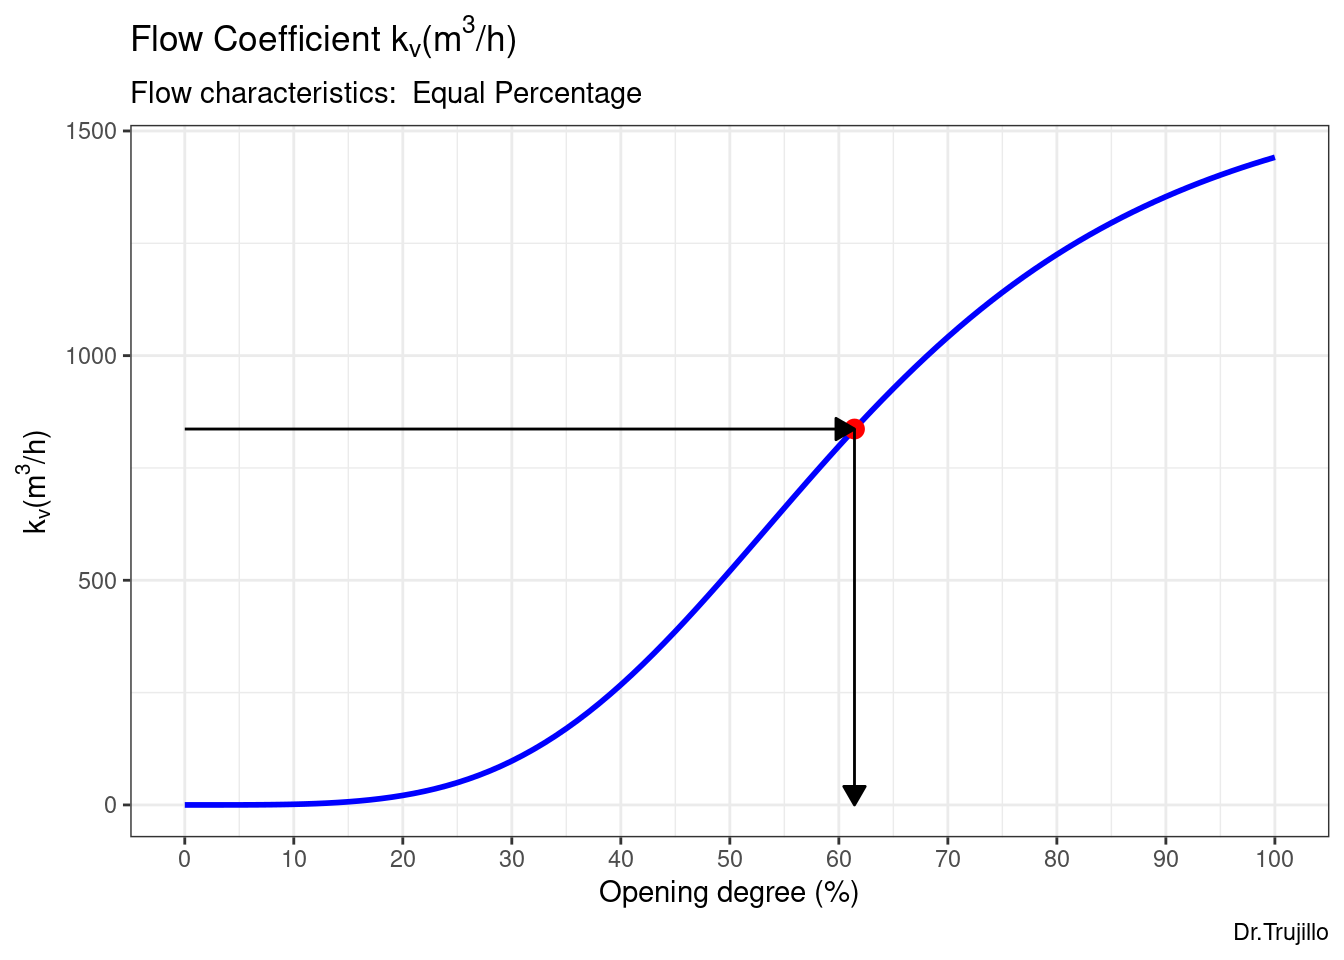
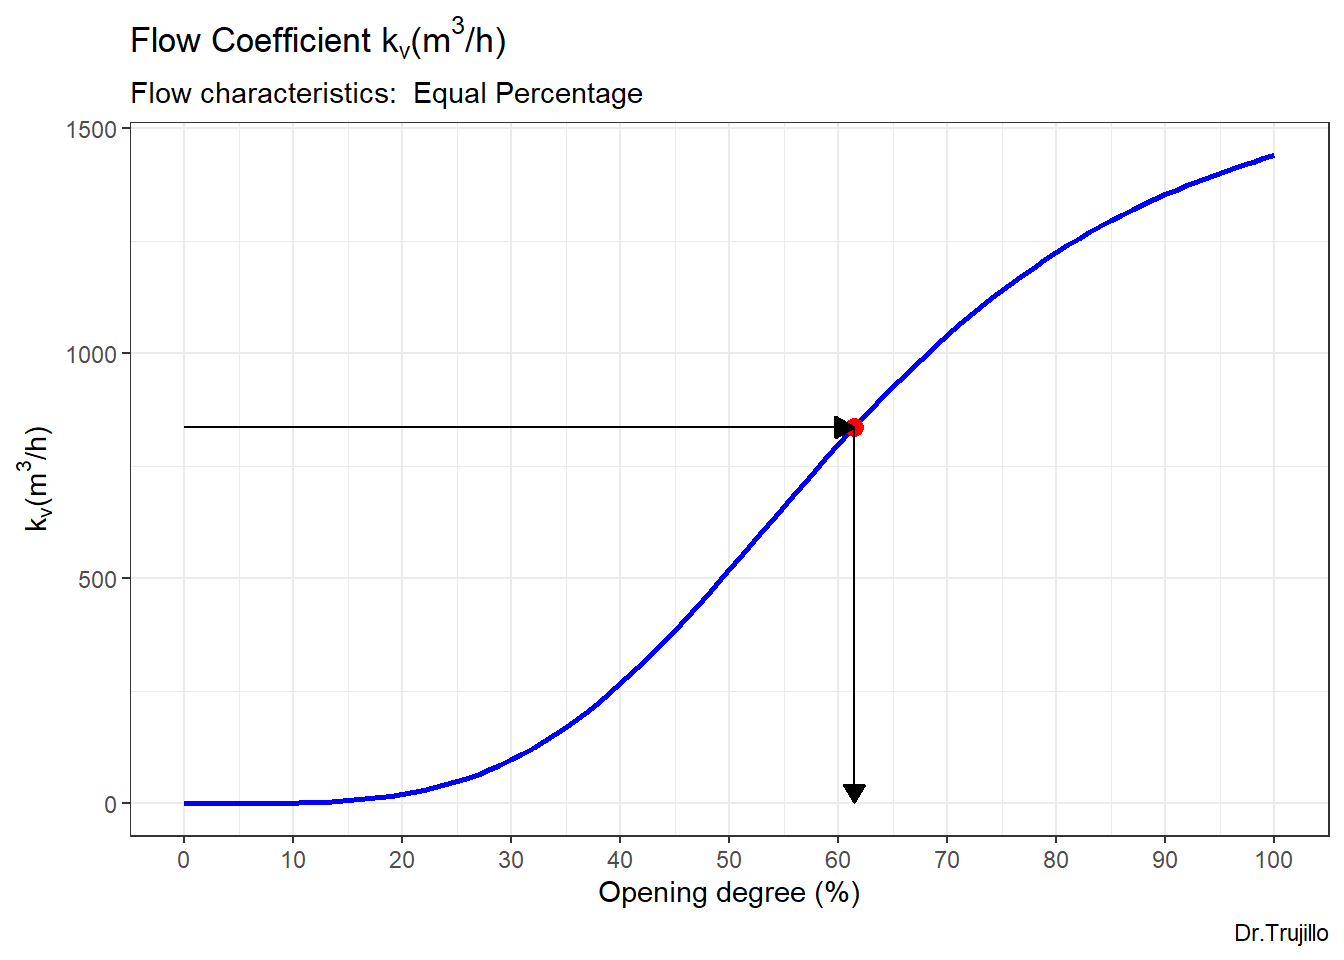
Update graph.

diff --git a/docs/HydraulicBasics.html b/docs/HydraulicBasics.html
@@ -277,8 +277,8 @@
 <div id="roughness-coefficient-varepsilon-of-the-pipe-in-mm" class="section level2">
 <h2><span class="header-section-number">2.6</span> Roughness coefficient <span class="math inline">\(\varepsilon\)</span> of the pipe in mm</h2>
 <div class="figure"><span id="fig:roughnessTab"></span>
-<div id="htmlwidget-64fee772e77f0d44f765" style="width:100%;height:auto;" class="datatables html-widget"></div>
-<script type="application/json" data-for="htmlwidget-64fee772e77f0d44f765">{"x":{"filter":"none","data":[["1","2","3","4","5","6","7","8","9","10","11","12","13","14","15","16","17","18","19","20","21","22","23","24","25","26","27","28","29","30","31","32","33","34","35","36","37","38"],["Aluminium","Aluminium","Asbestos-cement","Brass","Brass","Cast iron","Cast iron","Cast iron","Cast iron","Cast iron","Cast iron","Clay- Drainage-pipe","Concrete","Concrete","Concrete","Concrete","Concrete-Centrifugal-","Concrete-Centrifugal-","Concrete-Steel-","Copper","Copper","Glass","Glass","Plastic","Plastic","Rubber","Steel","Steel","Steel","Steel","Steel-longitudinal welded","Steel-longitudinal welded","Steel-longitudinal welded","Steel-weldless","Steel-weldless","Steel-weldless","Steel-weldless","Steel-weldless"],["drawn/pressed","drawn/pressed","smooth","drawn/pressed","drawn/pressed","average city severage","incrusted","bituminized","with skin","operating several years- cleaned","slightly rusty","calcined","medium rough","rough","smooth","operating several years","smooth plastered","without plaster","smooth","drawn/pressed","drawn/pressed","drawn/pressed","drawn/pressed","drawn/pressed","drawn/pressed","smoot","after long operation cleaned","homogeneous corrosion pits","intensely incrusted","slightly rusty and incrusted","bituminized","galvanized","rolling skin","comm.size galvanized","neatly galvanized","pickled","rolling skin","unpickled"],[true,false,true,true,false,false,false,true,true,false,false,true,true,true,true,false,true,true,true,true,false,true,false,true,false,true,false,false,false,false,true,true,true,true,true,true,true,true],[false,true,false,false,true,true,true,false,false,true,false,false,false,false,false,true,false,false,false,false,true,false,true,false,true,false,true,true,true,true,false,false,false,false,false,false,false,false],[false,false,false,false,false,false,false,false,false,true,false,false,false,false,false,false,false,false,false,false,false,false,false,false,false,false,true,false,false,false,false,false,false,false,false,false,false,false],[0.0013,0.03,0.03,0.0013,0.03,1.2,3,0.1,0.2,1.5,1,0.7,1,2,0.3,0.2,0.1,0.2,1,0.0013,0.03,0.0013,0.03,0.0013,0.03,0.0016,0.15,0.15,2,0.15,0.01,0.008,0.04,0.1,0.07,0.03,0.02,0.03],[0.0015,0.0346,0.1,0.0014,0.0323,1.56,3.9,0.13,0.6,1.95,1.5,1.05,2,3,0.8,0.3,0.15,0.8,0.15,0.0015,0.0346,0.0015,0.0346,0.0015,0.0346,0.0018,0.2,0.2,4,0.4,0.05,0.04,0.1,0.16,0.1,0.04,0.06,0.06]],"container":"<table class=\"display\">\n  <thead>\n    <tr>\n      <th> <\/th>\n      <th>material<\/th>\n      <th>comment<\/th>\n      <th>new<\/th>\n      <th>used<\/th>\n      <th>cleaned<\/th>\n      <th>min<\/th>\n      <th>max<\/th>\n    <\/tr>\n  <\/thead>\n<\/table>","options":{"columnDefs":[{"className":"dt-right","targets":[6,7]},{"orderable":false,"targets":0}],"order":[],"autoWidth":false,"orderClasses":false}},"evals":[],"jsHooks":[]}</script>
+<div id="htmlwidget-a570bbbf2663b847f769" style="width:100%;height:auto;" class="datatables html-widget"></div>
+<script type="application/json" data-for="htmlwidget-a570bbbf2663b847f769">{"x":{"filter":"none","data":[["1","2","3","4","5","6","7","8","9","10","11","12","13","14","15","16","17","18","19","20","21","22","23","24","25","26","27","28","29","30","31","32","33","34","35","36","37","38"],["Aluminium","Aluminium","Asbestos-cement","Brass","Brass","Cast iron","Cast iron","Cast iron","Cast iron","Cast iron","Cast iron","Clay- Drainage-pipe","Concrete","Concrete","Concrete","Concrete","Concrete-Centrifugal-","Concrete-Centrifugal-","Concrete-Steel-","Copper","Copper","Glass","Glass","Plastic","Plastic","Rubber","Steel","Steel","Steel","Steel","Steel-longitudinal welded","Steel-longitudinal welded","Steel-longitudinal welded","Steel-weldless","Steel-weldless","Steel-weldless","Steel-weldless","Steel-weldless"],["drawn/pressed","drawn/pressed","smooth","drawn/pressed","drawn/pressed","average city severage","incrusted","bituminized","with skin","operating several years- cleaned","slightly rusty","calcined","medium rough","rough","smooth","operating several years","smooth plastered","without plaster","smooth","drawn/pressed","drawn/pressed","drawn/pressed","drawn/pressed","drawn/pressed","drawn/pressed","smoot","after long operation cleaned","homogeneous corrosion pits","intensely incrusted","slightly rusty and incrusted","bituminized","galvanized","rolling skin","comm.size galvanized","neatly galvanized","pickled","rolling skin","unpickled"],[true,false,true,true,false,false,false,true,true,false,false,true,true,true,true,false,true,true,true,true,false,true,false,true,false,true,false,false,false,false,true,true,true,true,true,true,true,true],[false,true,false,false,true,true,true,false,false,true,false,false,false,false,false,true,false,false,false,false,true,false,true,false,true,false,true,true,true,true,false,false,false,false,false,false,false,false],[false,false,false,false,false,false,false,false,false,true,false,false,false,false,false,false,false,false,false,false,false,false,false,false,false,false,true,false,false,false,false,false,false,false,false,false,false,false],[0.0013,0.03,0.03,0.0013,0.03,1.2,3,0.1,0.2,1.5,1,0.7,1,2,0.3,0.2,0.1,0.2,1,0.0013,0.03,0.0013,0.03,0.0013,0.03,0.0016,0.15,0.15,2,0.15,0.01,0.008,0.04,0.1,0.07,0.03,0.02,0.03],[0.0015,0.0346,0.1,0.0014,0.0323,1.56,3.9,0.13,0.6,1.95,1.5,1.05,2,3,0.8,0.3,0.15,0.8,0.15,0.0015,0.0346,0.0015,0.0346,0.0015,0.0346,0.0018,0.2,0.2,4,0.4,0.05,0.04,0.1,0.16,0.1,0.04,0.06,0.06]],"container":"<table class=\"display\">\n  <thead>\n    <tr>\n      <th> <\/th>\n      <th>material<\/th>\n      <th>comment<\/th>\n      <th>new<\/th>\n      <th>used<\/th>\n      <th>cleaned<\/th>\n      <th>min<\/th>\n      <th>max<\/th>\n    <\/tr>\n  <\/thead>\n<\/table>","options":{"columnDefs":[{"className":"dt-right","targets":[6,7]},{"orderable":false,"targets":0}],"order":[],"autoWidth":false,"orderClasses":false}},"evals":[],"jsHooks":[]}</script>
 <p class="caption">
 Figure 2.1: Roughness coefficient in milimeter.
 </p>

diff --git a/docs/use-of-flow-rate-equations-for-sizing-valves.html b/docs/use-of-flow-rate-equations-for-sizing-valves.html
@@ -215,8 +215,8 @@
 <p><span class="math display">\[
   K_v = q \cdot \sqrt{\frac {(\rho / \rho_{0})}{\Delta P}}
 \]</span>
-the Required <span class="math inline">\(K_v\)</span> is 836.6 <span class="math inline">\(m^3 / h\)</span> and the relative flow coefficient is <span class="math inline">\(K_v / K_{vs}=\)</span> 58%.</p>
-<p>Entering the graph of <span class="math inline">\(k_V / K_{VS}\)</span> with the value of 58 we find the position of the valve required for the flow of 795.6 <span class="math inline">\(m^3/h\)</span> and <span class="math inline">\(\Delta{P}\)</span> of 0.9 bar is 61.44%.</p>
+the Required <span class="math inline">\(K_v\)</span> is 836.6 <span class="math inline">\(m^3/h\)</span> and the relative flow coefficient is <span class="math inline">\(K_v/K_{vs}=\)</span> 58%.</p>
+<p>Entering the graph of <span class="math inline">\(k_V/K_{VS}\)</span> with the value of 58% we find the position of the valve required for the flow of 795.6 <span class="math inline">\(m^3/h\)</span> and <span class="math inline">\(\Delta{P}\)</span> of 0.9 bar is 61.44%.</p>
 <div class="figure"><span id="fig:kv-kvs-Example-1"></span>
 <img src="PlungerValves_files/figure-html/kv-kvs-Example-1-1.png" alt="Inherent Valve Characteristics" width="672" />
 <p class="caption">
@@ -230,13 +230,18 @@ Figure 7.1: Inherent Valve Characteristics
 Figure 7.2: Flow coefficient
 </p>
 </div>
+<p>Knowing that the valve position is 61.44%, it is possible to read the Zeta Value <span class="math inline">\(\zeta_{v}\)</span> and the Liquid Pressure Recovery Factor <span class="math inline">\({F_L}\)</span>.:</p>
+<ul>
+<li><span class="math inline">\(\zeta_{v}=\)</span> 8.91</li>
+<li><span class="math inline">\({F_L}= 0.7\)</span></li>
+</ul>
+<pre><code>## Warning: Transformation introduced infinite values in continuous y-axis</code></pre>
 <div class="figure"><span id="fig:zv-Example-1"></span>
 <img src="PlungerValves_files/figure-html/zv-Example-1-1.png" alt="Zeta Value" width="672" />
 <p class="caption">
 Figure 7.3: Zeta Value
 </p>
 </div>
-<p>Liquid pressure recovery factor <span class="math inline">\(F_L\)</span>: 0.7</p>
 <div class="figure"><span id="fig:fl-Example-1"></span>
 <img src="PlungerValves_files/figure-html/fl-Example-1-1.png" alt="Liquid pressure Recovery Factor" width="672" />
 <p class="caption">
